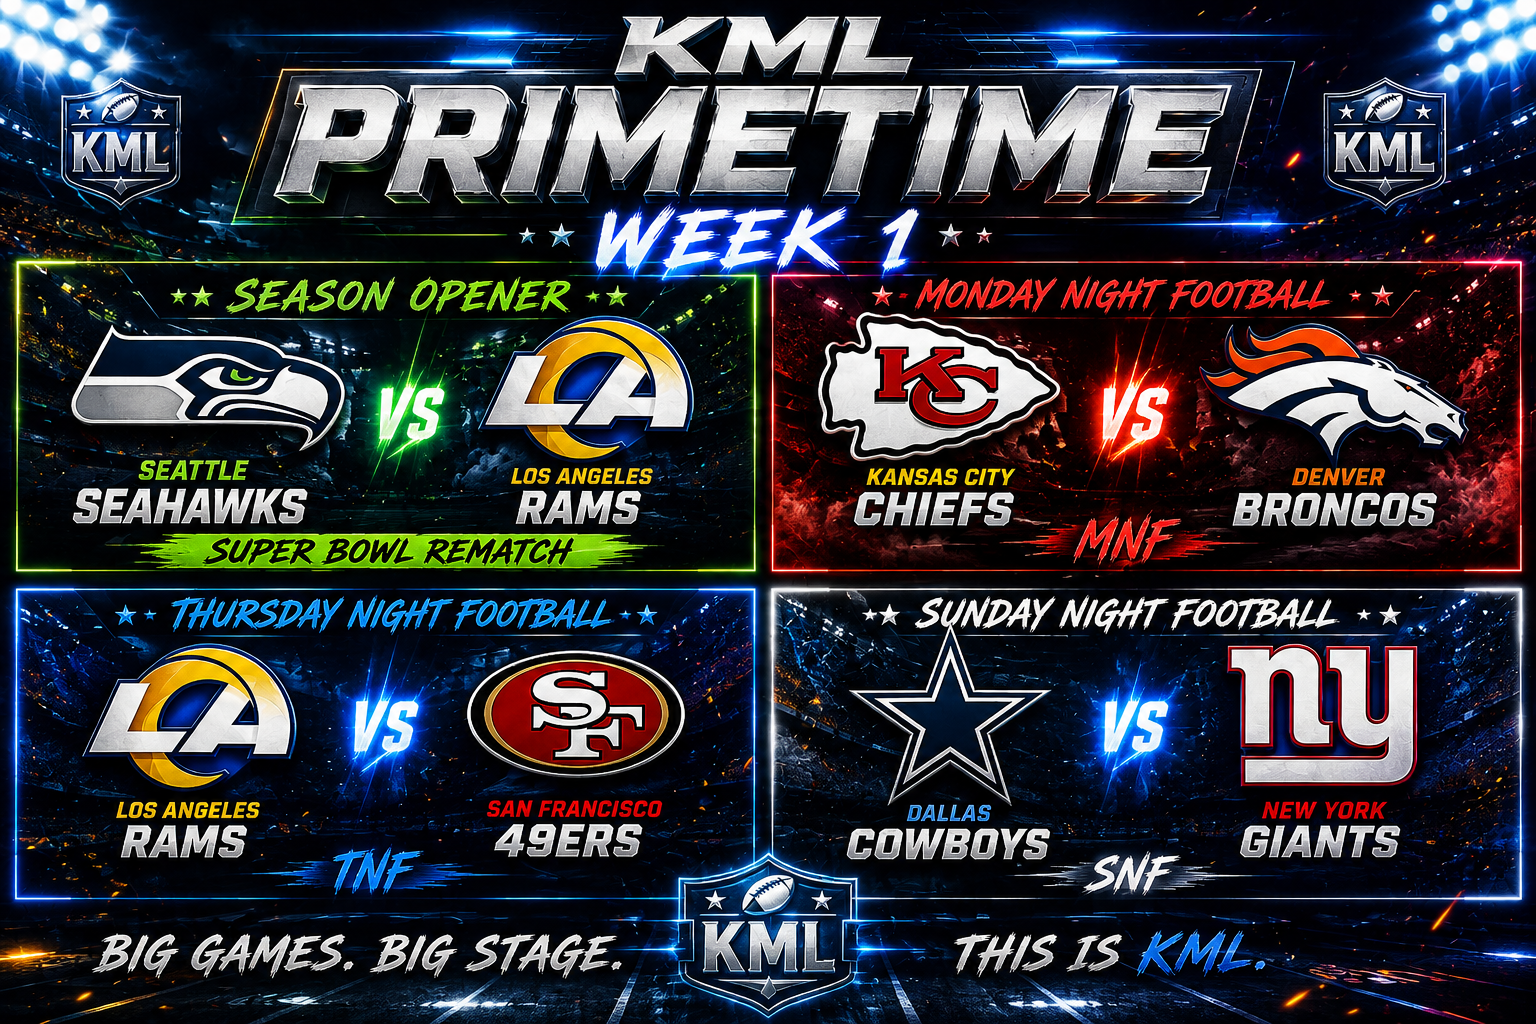
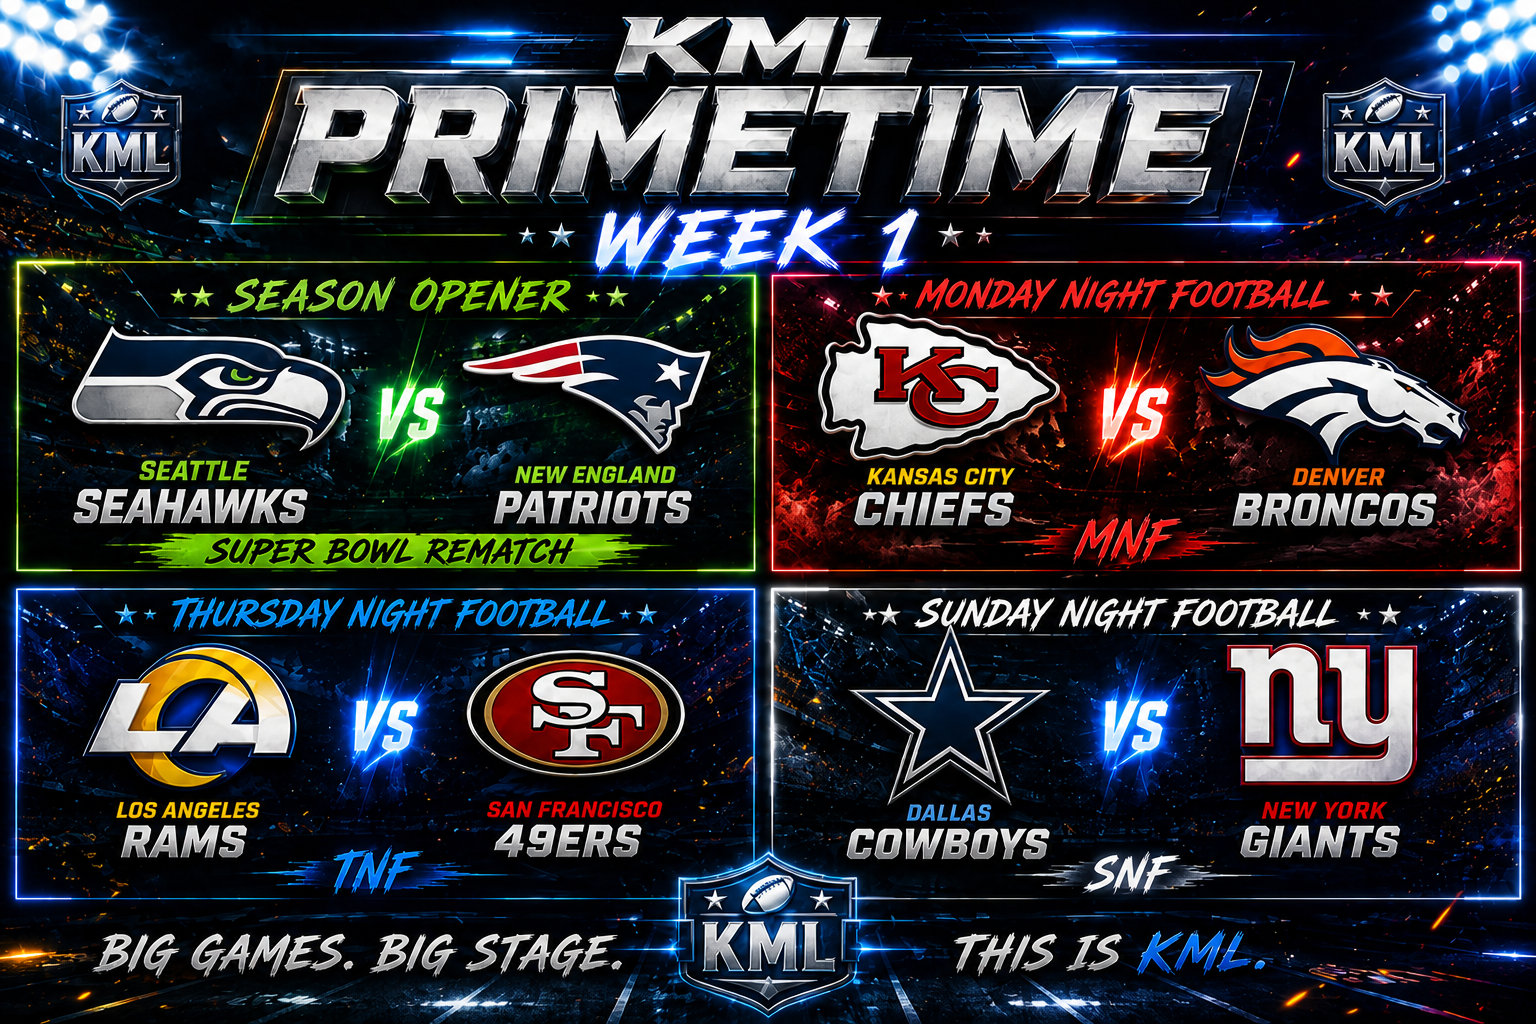
Update Week 1 Primetime opener to Seahawks vs Patriots.
Refresh the GOTW graphic and article so the Super Bowl rematch kickoff matches the real matchup.

Changed region(s): [[0.0, 0.0, 1.0, 1.0], [0.8125, 0.875, 0.8438, 0.9062], [0.5312, 0.0, 0.5625, 0.0312]]

diff --git a/src/lib/stories.ts b/src/lib/stories.ts
@@ -288,7 +288,7 @@ Welcome to the Kings Madden League.`,
     title: "KML Primetime Week 1: big games, big stage",
     eyebrow: "Games of the week · Season opener",
     summary:
-      "Seahawks–Rams kicks off KML as a Super Bowl rematch on the Primetime board — Morning Show chalk vs the best roster in Madden 27 — plus MNF, TNF, and SNF heaters.",
+      "Seahawks–Patriots kicks off KML as a Super Bowl rematch — Morning Show chalk vs Ren’s dark-horse Patriots — plus MNF, TNF, and SNF heaters.",
     body: `![KML Primetime Week 1](/stories/wk1-gotw.png)
 
 **Big games. Big stage. This is KML.**
@@ -297,33 +297,31 @@ Week 1 doesn’t wait for September drama to build itself. The Primetime board i
 
 If you read the [Morning Show’s first-champion speculation](/storylines/season-1-first-champion-speculation), you already know the tension. Roster overalls tell you who *should* win. League history tells you who *can*. Week 1 is where those two theories collide for the first time.
 
-## ★★ Season Opener — Seahawks vs Rams (Super Bowl rematch)
+## ★★ Season Opener — Seahawks vs Patriots (Super Bowl rematch)
 
 This is the kickoff. The graphic stamped it twice for a reason: **Season Opener** and **Super Bowl rematch**.
 
-On one sideline: **MONEYTEAMPETEY** and the **Seahawks (84 OVR)**. On the other: **Jordan Stowe** and the **Rams (91 OVR)** — the highest-rated franchise in Madden 27, with a league-best **93 offense** and **88 defense**.
+On one sideline: **MONEYTEAMPETEY** and the **Seahawks (84 OVR)** — the Morning Show’s chalk pick to hoist the first Lombardi. On the other: **Ren / Wrinzo** and the **Patriots (86 OVR · 87 OFF · 85 DEF)** — one of KML’s known best users sitting on a top-six roster.
 
-That is not a normal Week 1. That is the Morning Show’s **player chalk** against the league’s **team favorite**.
+That is not a normal Week 1. That is **player chalk versus dark-horse toys** in a rematch frame, with the entire league watching the first snap of Season 1.
 
 ### Why this game matters (user + team)
 
-When the desk argued who lifts the first Lombardi, they drew a hard line:
+When the desk argued who lifts the first Lombardi, both of these names were already on the board:
 
-- **Best team on paper:** Jordan Stowe’s Rams
 - **Morning Show chalk:** Petey’s Seahawks — “Seahawks in 5”
+- **Dark horse with toys:** Ren’s Patriots — elite user + contend-ready New England
 
-Put those two in the same building for Game 1 and you get the cleanest early measuring stick in the league. Stowe has the toys. Petey has the reputation as a scheme-first killer who doesn’t need 91 overall to cut people down. If Seattle walks into Hollywood and hangs, every “team merchant” narrative in Discord gets louder overnight. If the Rams steamroll, the throne stays exactly where the ratings board said it belonged.
-
-*(Nearby context from that same speculation board: **Ren / Wrinzo’s Patriots (86)** were the dark-horse-with-toys pick — elite user + top-six roster. They’re not on this Primetime card, but they’re the reminder that user skill and roster power don’t always wear the same jersey.)*
+Put those two in the same building for Game 1 and you get the cleanest early measuring stick in the league that isn’t just “best overall wins.” Petey’s reputation is scheme-first and ruthless. Ren’s reputation is that the sticks travel even when the narrative doesn’t. If Seattle hangs and leaves with a statement, the chalk gets louder. If New England spoils the opener, every “team merchant” argument in Discord gets a new exhibit — and Ren’s dark-horse lane opens at full speed.
 
 ### Stars & X-factors
 
 | Side | Coach | QB to watch | Primary X-factor | Secondary juice |
 | --- | --- | --- | --- | --- |
 | **Seahawks** | Petey | **Sam Darnold** | **Jaxon Smith-Njigba** — the volume WR who forces coverages to break | **Devon Witherspoon** — takeaway juice that flips field position |
-| **Rams** | Jordan Stowe | **Matthew Stafford** | **Puka Nacua** — the mismatch that turns 93 OVR offense into points | **Kyren Williams** — clock control + explosive lanes behind Hollywood’s OL |
+| **Patriots** | Ren (Wrinzo) | **Drake Maye** | **Stefon Diggs** — the timing route artist who eats zone | **Christian Gonzalez** — erase a WR1 and force Petey left |
 
-**Desk keys:** Can Petey keep Stafford off schedule and make this a one-score dogfight? Or does Puka/Stafford turn the opener into a statement that 91 overall was never a debate?
+**Desk keys:** Can Petey keep Maye off schedule and win with complementary football? Or does Diggs/Maye turn the Super Bowl rematch into New England’s first statement of the Madden 27 cycle?
 
 ---
 
@@ -346,18 +344,18 @@ This is explosiveness versus identity. Kansas City still grades as a **90 overal
 
 ## ★ Thursday Night Football — Rams vs 49ers
 
-Yes — **Jordan Stowe’s Rams** again. Week 1 doesn’t ease the throne into the season. It puts Hollywood on a short week against **Swipe’s 49ers (85 OVR · 90 OFF)** — the late-draft steal with a premium attack and the coaching storyline already buzzing from the Bosa trade desk.
+**Jordan Stowe’s Rams (91 OVR)** — the best roster in Madden 27 — against **Swipe’s 49ers (85 OVR · 90 OFF)**, the late-draft steal with a premium attack and the coaching storyline already buzzing from the Bosa trade desk.
 
-NFC West heat. Primetime lights. Immediate tape for two win-now rooms.
+NFC West heat. Primetime lights. Immediate tape for the throne and the challenger next door.
 
 ### Stars & X-factors
 
 | Side | Coach | QB to watch | Primary X-factor | Secondary juice |
 | --- | --- | --- | --- | --- |
-| **Rams** | Jordan Stowe | **Matthew Stafford** | **Puka Nacua** — again the cover-2 breaker | **Jared Verse** — edge pressure that ruins play-action timing |
+| **Rams** | Jordan Stowe | **Matthew Stafford** | **Puka Nacua** — the cover-2 breaker that turns 93 OVR offense into points | **Jared Verse** — edge pressure that ruins play-action timing |
 | **49ers** | Swipe | **Brock Purdy** | **George Kittle** — the mismatch that beats zone and sells play-action | **Fred Warner** — the green-dot problem that erases shallow crossers |
 
-**Desk keys:** San Francisco’s 90 offense can hang with anyone in a shootout. The question is whether Stowe’s 88 defense — and Hollywood’s star skill — make TNF a statement rematch of the opener or a trap game for the league’s best roster.
+**Desk keys:** San Francisco’s 90 offense can hang with anyone in a shootout. The question is whether Stowe’s 88 defense — and Hollywood’s star skill — make TNF a statement for the league’s best roster or a trap game against NFC West juice.
 
 ---
 
@@ -382,16 +380,16 @@ User-wise, this is pressure versus proof. Dallas still brings offensive firepowe
 
 | Window | Matchup | Coaches | Why it’s on the board |
 | --- | --- | --- | --- |
-| Season Opener | Seahawks–Rams | Petey vs Jordan Stowe | Super Bowl rematch branding + chalk vs best roster |
+| Season Opener | Seahawks–Patriots | Petey vs Ren | Super Bowl rematch + chalk vs dark-horse elite user |
 | MNF | Chiefs–Broncos | Trent vs Puddin | 90 OFF fireworks vs 87 DEF identity |
-| TNF | Rams–49ers | Stowe vs Swipe | Hollywood’s second stage vs NFC West heat |
+| TNF | Rams–49ers | Stowe vs Swipe | Best roster in the game vs NFC West heat |
 | SNF | Cowboys–Giants | Jsmood vs Biz | Star offense vs early-pick prove-it night |
 
 ## Desk verdict
 
 The first champion article told you the map: **Stowe has the mountain**, **Petey has the chalk**, **Ren has the dark-horse toys**, and a handful of game-changers are waiting to ruin someone’s Sunday.
 
-Week 1 Primetime doesn’t settle the Lombardi. It does something meaner — it **puts the theories on tape**.
+Week 1 Primetime doesn’t settle the Lombardi. It does something meaner — it **puts the theories on tape**, starting with a Super Bowl rematch kickoff.
 
 Submit the scores. Stamp the Sim Scores. Let the desk argue.
 
